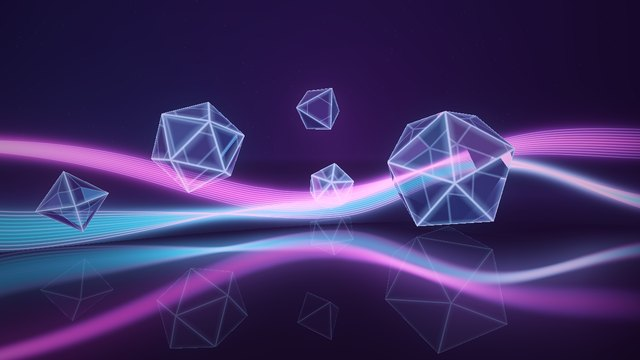
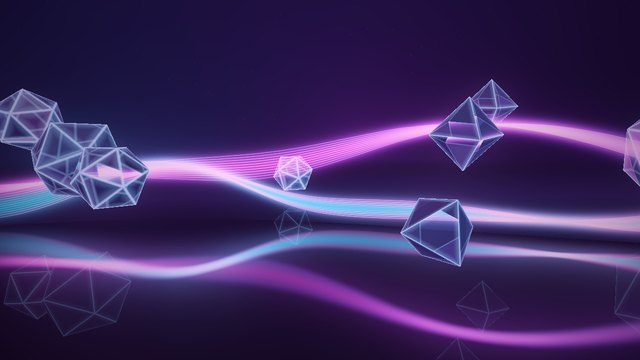
Ribbons: slide the scene right to left with parallax
Syd asked for the ribbons and glass to always be moving left, with
parallax, like the screens in the brand film.

- The whole scene now slides right to left past the camera
  (sceneShift). Because the world itself moves, perspective gives the
  parallax: near glass and the stretches of ribbon that swing towards
  the camera cross the screen faster than far ones. The ribbons' curved
  sheet slides with it, and the far dust drifts slowest.
- The glass is now a stream of 8 shapes at different depths. Each one
  wraps from the left edge back in from the right, off screen, coming
  back a little higher or lower, bigger or smaller and turned
  differently. Starting points are staggered so they don't travel as a
  clump.
- The slide is a slow base drift on a new wall-clock uniform plus
  uScroll, so it speeds up with the music. Both only increase, so it
  never runs backwards.
- In silence the scene still dims, but it keeps a slow drift. This is a
  deliberate exception to the still-in-silence rule, at Syd's request.
- The camera's lean on the bass is toned down (0.25 to 0.10), and so is
  the glass swell on hits, so the first kick no longer lurches.

Adds uClock to the shared prelude: wall-clock seconds that keep
running in silence, wrapped at an hour like uTime. OpenGLRenderer keeps
it (wallClock) and sets it for every shader mode. Unused uniforms
resolve to -1, so other modes are unaffected. CONTRIBUTING lists it,
for modes that should never stop completely.
[…]

diff --git a/VisualiserMac/Sources/VisualiserMac/Render/FunShaders.swift b/VisualiserMac/Sources/VisualiserMac/Render/FunShaders.swift
@@ -34,6 +34,7 @@ enum FunShaders {
     uniform float uActive;      // 0 in silence, eases to 1 with sound
     uniform float uBeats;       // beat counter at the detected tempo
     uniform float uScroll;      // forward-only distance, faster when louder
+    uniform float uClock;       // wall-clock seconds; keeps running in silence (use sparingly)
     out vec4 fragColor;
 
     const float PI = 3.14159265;
@@ -1574,11 +1575,14 @@ extension FunShaders {
     /// through floating glass polyhedra above a glossy floor. The glass is
     /// ray-traced exactly (each shape is a set of paired face planes, so there
     /// is no raymarching loop): it reflects the room, refracts the ribbons
-    /// behind it and lights up along its edges. The bass bends the ribbons and
-    /// widens them, every beat turns the glass and reshapes the ribbons a step,
-    /// the spectrum shapes each ribbon along its length, and the treble makes
-    /// the edges and the dust sparkle. They flow with the forward-only scroll.
-    /// In silence: dim, and still.
+    /// behind it and lights up along its edges. The whole scene slides right
+    /// to left past the camera, so near glass and near stretches of ribbon
+    /// cross faster than far ones (parallax), and each shape comes back in
+    /// from the right once it has left. The slide speeds up with uScroll. The
+    /// bass bends the ribbons and widens them, every beat turns the glass and
+    /// reshapes the ribbons a step, the spectrum shapes each ribbon along its
+    /// length, and the treble makes the edges and the dust sparkle.
+    /// In silence it dims but keeps a slow drift (on uClock), by design.
     static let ribbons = """
     // Glass polyhedra as pairs of parallel planes: the first 4 axes make an
     // octahedron, all 10 an icosahedron (face normals, unit length).
@@ -1590,7 +1594,7 @@ extension FunShaders {
         vec3(0.9342, 0.0, 0.3568), vec3(-0.9342, 0.0, 0.3568));
 
     const float kFloorY = -0.62;
-    const int kGems = 5;
+    const int kGems = 8;
     const int kStrands = 11;
 
     const vec3 ribbonMagenta = vec3(1.0, 0.16, 0.72);
@@ -1604,6 +1608,13 @@ extension FunShaders {
         float t = fract(f);
         return mix(uBands[i], uBands[min(i + 1, 95)], t * t * (3.0 - 2.0 * t));
     }
+
+    // How far the whole scene has slid to the left, in world units. A slow base
+    // drift on the wall clock (so it never stops, even in silence) plus uScroll,
+    // so it speeds up with the music. Both only ever increase. Because the world
+    // itself moves, perspective gives the parallax: near glass and near stretches
+    // of ribbon cross the screen faster than far ones.
+    float sceneShift() { return uClock * 0.15 + uScroll * 0.85; }
 
     // The world turns a step on every beat: a whole number per beat that eases in
     // over the first part of the beat. Forward-only, so it never runs backwards.
@@ -1621,6 +1632,7 @@ extension FunShaders {
     vec3 ribbonLight(vec2 q, float soft) {
         vec3 acc = vec3(0.0);
         float turn = beatTurn();
+        float X = q.x + sceneShift();                        // position along the ribbon, sliding left
         float hueDrift = 0.08 * sin(uBeats * PI / 32.0);     // colours sway a little over 64 beats
         float x01 = clamp(q.x / 6.0 + 0.5, 0.0, 1.0);
         float edge = smoothstep(-3.8, -2.6, q.x) * smoothstep(3.8, 2.6, q.x);
@@ -1634,17 +1646,17 @@ extension FunShaders {
             float amp = (0.17 + 0.18 * spec + 0.26 * uBass) * mix(0.6, 1.0, uActive);
             float ph = fb * 2.1 + turn * 0.55;
             float k = 0.8 + fb * 0.25;
-            float s = uScroll * (1.1 - fb * 0.35);
-            float a1 = q.x * k + s + ph;
-            float a2 = q.x * k * 2.1 - s * 0.6 + ph * 1.7 + fb;
+            float s = uScroll * (0.35 - fb * 0.12);              // a gentle ripple along the ribbon on top of the slide
+            float a1 = X * k + s + ph;
+            float a2 = X * k * 2.1 - s * 0.6 + ph * 1.7 + fb;
             float yc = (fb > 0.5 ? -0.34 : 0.02) + amp * sin(a1) + amp * 0.4 * sin(a2);
             float lo = kFloorY + 0.13;                       // skim the floor rather than sink into it
             yc = 0.5 * (yc + lo + sqrt((yc - lo) * (yc - lo) + 0.004));
             float slope = amp * k * (cos(a1) + 0.84 * cos(a2));
             // Each bundle is a flat ribbon of fine parallel strands that twists
             // as it travels: wide where it faces you, a bright pinch where it turns.
-            float width = (0.10 + 0.09 * uBass + 0.06 * uBeatStrength) * (0.8 + 0.2 * sin(q.x * 0.7 + fb * 3.0));
-            float twist = q.x * (0.75 + 0.2 * fb) - uScroll * 0.9 + fb * 1.7 + turn * 0.25;
+            float width = (0.10 + 0.09 * uBass + 0.06 * uBeatStrength) * (0.8 + 0.2 * sin(X * 0.7 + fb * 3.0));
+            float twist = X * (0.75 + 0.2 * fb) - uScroll * 0.3 + fb * 1.7 + turn * 0.25;
             float face = cos(twist);
             float radius = width * abs(face);
             float norm = inversesqrt(1.0 + slope * slope);
@@ -1659,12 +1671,12 @@ extension FunShaders {
                     float w = 0.0022 + 0.0022 * (1.0 - abs(u)) + soft;
                     float core = 1.0 - smoothstep(0.0, w, d);
                     float halo = exp(-d / (0.014 + soft * 3.0));
-                    vec3 c = ribbonHue(abs(u) * 0.22 + fb * 0.55 + q.x * 0.02 + hueDrift);
+                    vec3 c = ribbonHue(abs(u) * 0.22 + fb * 0.55 + X * 0.02 + hueDrift);
                     bundle += c * (core * 2.4 + halo * 0.4) * (0.55 + 0.45 * (1.0 - abs(u))) * min(pinch, 1.8);
                 }
             }
             // the ribbon's translucent body, and its glow on the air around it
-            vec3 bodyC = ribbonHue(0.05 + fb * 0.55 + q.x * 0.02 + hueDrift);
+            vec3 bodyC = ribbonHue(0.05 + fb * 0.55 + X * 0.02 + hueDrift);
             bundle += bodyC * exp(-pow(dc / (radius + 0.015 + soft * 2.0), 2.0)) * 0.28;
             bundle += bodyC * exp(-dc / (0.16 + soft * 4.0)) * 0.12;
             acc += bundle;
@@ -1673,13 +1685,14 @@ extension FunShaders {
         return acc * edge * glow / (1.0 + soft * 25.0);
     }
 
-    // The ribbons live on a gently curved sheet that swings towards the camera on
-    // the left. Where a ray meets it (a few fixed-point steps), or -1.
-    float ribbonDepth(float x) { return 0.75 * sin(x * 0.5 + 0.9 + uTime * 0.03) - 0.15; }
+    // The ribbons live on a curved sheet that slides left with the scene, so
+    // stretches of ribbon swing towards the camera (and move faster) and back
+    // away again. Where a ray meets it (a few fixed-point steps), or -1.
+    float ribbonDepth(float x) { return 1.0 * sin((x + sceneShift()) * 0.45 + 0.9) - 0.1; }
     float ribbonT(vec3 ro, vec3 rd) {
         if (abs(rd.z) < 1e-3) return -1.0;
         float t = (ribbonDepth(ro.x) - ro.z) / rd.z;
-        for (int i = 0; i < 3; i++) t = (ribbonDepth(ro.x + rd.x * max(t, 0.0)) - ro.z) / rd.z;
+        for (int i = 0; i < 4; i++) t = (ribbonDepth(ro.x + rd.x * max(t, 0.0)) - ro.z) / rd.z;
         return t;
     }
 
@@ -1698,7 +1711,7 @@ extension FunShaders {
         vec3 col = mix(vec3(0.006, 0.014, 0.050), vec3(0.016, 0.026, 0.095), smoothstep(-0.1, 0.6, rd.y));
         col += vec3(0.16, 0.04, 0.22) * exp(-length(rd.xy - vec2(0.15, 0.02)) * 3.0) * (0.25 + 0.35 * uActive);
         col += vec3(0.01, 0.12, 0.22) * exp(-length(rd.xy - vec2(-0.45, -0.1)) * 3.0) * (0.25 + 0.35 * uActive);
-        vec2 sp = rd.xy / max(rd.z, 0.2) * 90.0;
+        vec2 sp = rd.xy / max(rd.z, 0.2) * 90.0 + vec2(sceneShift() * 5.0, 0.0);   // far dust drifts slowest
         vec2 cell = floor(sp);
         float h = hash21(cell);
         vec2 off = vec2(hash21(cell + 7.1), hash21(cell + 3.3)) - 0.5;
@@ -1718,17 +1731,34 @@ extension FunShaders {
         return col;
     }
 
-    // Where each glass shape is, how it's turned, and how big it is.
+    // Where each glass shape is, how it's turned, and how big it is. Each one
+    // sits at its own depth and slides left with the scene; once it's off the
+    // left edge it comes back in from the right (a little higher or lower, a bit
+    // bigger or smaller, turned differently), so the stream never runs dry. The
+    // starting points are staggered so the shapes don't travel as one clump.
     void gemPose(int j, out vec3 c, out vec2 ang, out float r, out int faces) {
         float fj = float(j);
-        if (j == 0)      { c = vec3(1.25, -0.05, 0.25);  r = 0.60; faces = 10; }
-        else if (j == 1) { c = vec3(-1.10, 0.22, 0.45); r = 0.42; faces = 10; }
-        else if (j == 2) { c = vec3(0.10, 0.55, 1.10);  r = 0.30; faces = 4; }
-        else if (j == 3) { c = vec3(-1.95, -0.30, -0.10); r = 0.24; faces = 4; }
-        else             { c = vec3(0.30, -0.28, 1.50); r = 0.30; faces = 10; }
+        if (j == 0)      { c = vec3(0.0, -0.05, 0.25);  r = 0.58; faces = 10; }
+        else if (j == 1) { c = vec3(0.0, 0.22, 0.55);   r = 0.42; faces = 10; }
+        else if (j == 2) { c = vec3(0.0, 0.55, 1.40);   r = 0.30; faces = 4; }
+        else if (j == 3) { c = vec3(0.0, -0.30, -1.95); r = 0.17; faces = 4; }
+        else if (j == 4) { c = vec3(0.0, -0.26, 2.40);  r = 0.34; faces = 10; }
+        else if (j == 5) { c = vec3(0.0, 0.40, -0.70);  r = 0.26; faces = 4; }
+        else if (j == 6) { c = vec3(0.0, 0.45, 2.00);   r = 0.38; faces = 10; }
+        else             { c = vec3(0.0, -0.22, -1.20); r = 0.20; faces = 10; }
+        // Wrap span: wide enough that the jump happens off screen at this depth.
+        float depth = c.z + 3.4;
+        float span = 2.0 * (depth * 1.1 + r) + 0.6;
+        float x = fract(fj * 0.375 + 0.2) * span - sceneShift();
+        float lap = floor(x / span);
+        c.x = x - lap * span - 0.5 * span;
+        float lh = hash11(lap * 3.7 + fj * 11.3);
+        c.y = clamp(c.y + (lh - 0.5) * 0.4, kFloorY + r + 0.05, 0.75);
+        r *= 0.85 + 0.3 * hash11(lap * 5.1 + fj * 2.9);
         c.y += 0.06 * sin(uTime * 0.45 + fj * 1.9);
-        ang = vec2(uTime * (0.10 + 0.03 * fj) + fj * 1.3, beatTurn() * 0.32 + fj * 2.1);
-        r *= 1.0 + 0.10 * uBeatStrength + 0.05 * uBass;
+        ang = vec2(uTime * (0.10 + 0.03 * fj) + uClock * 0.02 + fj * 1.3 + lh * 6.28,
+                   beatTurn() * 0.32 + fj * 2.1);
+        r *= 1.0 + 0.06 * uBeatStrength + 0.04 * uBass;
     }
 
     vec3 toGem(vec3 v, vec2 ang) { v.xz = rot(ang.x) * v.xz; v.yz = rot(ang.y) * v.yz; return v; }
@@ -1847,10 +1877,10 @@ extension FunShaders {
 
     void main() {
         vec2 p = screenP();
-        // Camera drifts slowly round the scene (the clock stops in silence) and
-        // leans in on the bass.
+        // Camera sways slowly (on the sound-gated clock) and leans in a little
+        // on the bass. The scene itself slides left past it (sceneShift).
         float yaw = 0.22 * sin(uTime * 0.07);
-        vec3 ro = vec3(0.0, 0.16, -3.3 + 0.25 * uBass);
+        vec3 ro = vec3(0.0, 0.16, -3.3 + 0.10 * uBass);
         ro.xz = rot(yaw) * ro.xz;
         vec3 fw = normalize(vec3(0.0, -0.12, 0.0) - ro);
         vec3 rt = normalize(cross(vec3(0.0, 1.0, 0.0), fw));
@@ -1887,7 +1917,7 @@ extension FunShaders {
 
         col = 1.0 - exp(-col * 1.8);                   // soft highlight roll-off
         col *= 1.0 - 0.35 * dot(p, p);                  // vignette
-        col = mix(col * 0.5, col, uActive);             // dims and settles in silence
+        col = mix(col * 0.5, col, uActive);             // dims in silence, but keeps drifting
         fragColor = vec4(col, 1.0);
     }
     """

diff --git a/VisualiserMac/Sources/VisualiserMac/Render/OpenGLRenderer.swift b/VisualiserMac/Sources/VisualiserMac/Render/OpenGLRenderer.swift
@@ -90,7 +90,7 @@ final class OpenGLRenderer: NSObject {
         let program: GLuint
         let time, bass, mid, treble, beat, beatStrength, level, resolution, idle, bands: GLint
         let eventKind, eventAge: GLint
-        let active, beats, peaks, scroll: GLint
+        let active, beats, peaks, scroll, clock: GLint
     }
     private var shaderModes: [VisualizerMode: ShaderMode] = [:]
 
@@ -1215,6 +1215,10 @@ final class OpenGLRenderer: NSObject {
     /// Distance travelled, for things that should move faster when louder.
     /// Accumulated (never time × speed) so a drop in speed can't run it backwards.
     private var scrollClock: Double = 0
+    /// Plain wall-clock seconds that keep running in silence. Only for modes
+    /// that should never stop completely (Ribbons keeps a slow, dim drift);
+    /// everything else should stay on the sound-gated clocks above.
+    private var wallClock: Double = 0
 
     private func advanceDanceClock(_ snap: AudioSnapshot) {
         let now = CACurrentMediaTime()
@@ -1225,6 +1229,7 @@ final class OpenGLRenderer: NSObject {
         danceActivity += (target - danceActivity) * min(1, dt * 6)
         danceClock += dt * danceActivity
         scrollClock += dt * danceActivity * (0.4 + Double(snap.level) * 0.6)
+        wallClock += dt
         let bpm = snap.bpm > 0 ? snap.bpm : 120
         beatClock += dt * danceActivity * bpm / 60
         if snap.beat { beatClock += (beatClock.rounded() - beatClock) * 0.35 }
@@ -1246,6 +1251,7 @@ final class OpenGLRenderer: NSObject {
         glUniform1f(m.active, Float(danceActivity))
         glUniform1f(m.beats, Float(beatClock.truncatingRemainder(dividingBy: 1024)))
         glUniform1f(m.scroll, Float(scrollClock.truncatingRemainder(dividingBy: 4096)))
+        glUniform1f(m.clock, Float(wallClock.truncatingRemainder(dividingBy: 3600)))
         if mode == .spectrum {
             for i in 0..<spectrumPeaks.count {
                 let v = max(snap.bands[i * 2], snap.bands[i * 2 + 1])
@@ -1446,7 +1452,7 @@ final class OpenGLRenderer: NSObject {
                 level: loc("uLevel"), resolution: loc("uResolution"), idle: loc("uIdle"),
                 bands: loc("uBands[0]"), eventKind: loc("uEventKind"), eventAge: loc("uEventAge"),
                 active: loc("uActive"), beats: loc("uBeats"), peaks: loc("uPeaks[0]"),
-                scroll: loc("uScroll"))
+                scroll: loc("uScroll"), clock: loc("uClock"))
             if mode == .band {
                 uBandParts = loc("uParts[0]"); uBandHits = loc("uHits"); uBandPluck = loc("uPluck")
                 uBandVocal = loc("uVocal"); uBandKeys = loc("uKeys[0]")

diff --git a/site/index.html b/site/index.html
@@ -237,7 +237,7 @@
       <article class="mode" data-mode="band"><img src="media/modes/band.jpg" alt="The Band mode: a pixel-art band walking on stage when their instrument is heard" loading="lazy"><div class="body"><div class="num">11 · KEY -</div><h3>The Band</h3><p>A pixel-art band in ten genre sets, from a concert hall to a jazz club. Musicians walk on when AudioVane hears their instrument, and the singer matches the voice.</p></div></article>
       <article class="mode" data-mode="machine"><img src="media/modes/machine.jpg" alt="Machine mode: cannons firing balls at the drums" loading="lazy"><div class="body"><div class="num">12 · KEY [</div><h3>Machine</h3><p>Cannons fire balls at drums in time with the notes, after mrdoob's MIDEM Hack Day machine.</p></div></article>
       <article class="mode" data-mode="waveform"><img src="media/modes/waveform.jpg" alt="Neon Wave mode: glowing green waveforms shaped by the spectrum" loading="lazy"><div class="body"><div class="num">13 · KEY ]</div><h3>Neon Wave</h3><p>Glowing green waveforms, shaped by the spectrum like an analogue sound analyser.</p></div></article>
-      <article class="mode" data-mode="ribbons"><img src="media/modes/ribbons.jpg" alt="Ribbons mode: glowing magenta and cyan ribbons twisting through glass shapes above a glossy floor" loading="lazy"><div class="body"><div class="num">14 · KEY ;</div><h3>Ribbons</h3><p>Luminous ribbons twist through floating glass. Every bass note bends them, and every beat turns the glass.</p></div></article>
+      <article class="mode" data-mode="ribbons"><img src="media/modes/ribbons.jpg" alt="Ribbons mode: glowing magenta and cyan ribbons twisting through glass shapes above a glossy floor" loading="lazy"><div class="body"><div class="num">14 · KEY ;</div><h3>Ribbons</h3><p>Luminous ribbons twist through floating glass as the whole scene drifts past. Every bass note bends them, and every beat turns the glass.</p></div></article>
       <article class="mode scan"><div class="body"><div class="num">KEY =</div><h3>Auto Scan</h3><p>Cycles through every mode, twenty seconds each.</p></div></article>
     </div>
   </section>

diff --git a/VisualiserMac/README.md b/VisualiserMac/README.md
@@ -17,7 +17,7 @@ Fourteen modes, plus Auto Scan:
 11. **The Band**: colour pixel-art musicians in ten genre sets (classical hall, DJ booth, rock theatre, pop studio, hip-hop street, jazz club, blues bar, country porch, R&B velvet, ambient), each with its own instruments and outfits. Apple's on-device sound classifier (SoundAnalysis), backed up by beat and bass detection, decides who walks on; the singer's voice (female, male or duet) comes from the vocal pitch. Playing follows the beat clock, with spectrum onsets as accents.
 12. **Machine**: a port of the MIDEM Music Hack Day piece by [@mrdoob and @plamere](https://github.com/mrdoob/midemhackday), rebuilt from its source: twelve stations of lathe-turned cannons and drums (one per pitch class) and a ring of 40 pads. Each note onset fires balls that arc onto the drum and pad for that pitch and loudness; struck drums recoil and flash white. Smooth meshes, 4x MSAA with a depth buffer, and the original's camera path flown over the length of the track (Music/Spotify report it).
 13. **Neon Wave**: layered glowing green waveforms, shaped by the spectrum like an analogue sound analyser.
-14. **Ribbons**: luminous magenta and cyan ribbons twisting through floating glass polyhedra above a glossy floor. The bass bends and widens the ribbons, each beat turns the glass a step, and the edges sparkle with the treble.
+14. **Ribbons**: luminous magenta and cyan ribbons twisting through floating glass polyhedra above a glossy floor, the whole scene sliding right to left with depth parallax. The bass bends and widens the ribbons, each beat turns the glass a step, and the edges sparkle with the treble. It keeps a slow, dim drift in silence.
 
 **Auto Scan** cycles through every other mode, 20 seconds each, and always sits at the bottom of the mode list.
 

diff --git a/CONTRIBUTING.md b/CONTRIBUTING.md
@@ -30,6 +30,7 @@ Most modes are a single full-screen fragment shader, which is the quickest way i
    - `uBeats`: a beat counter locked to the detected tempo (`fract(uBeats)` is the phase within a beat)
    - `uScroll`: forward-only distance that moves faster when louder
    - `uActive`: 0 in silence, easing to 1 with sound
+   - `uClock`: wall-clock seconds that keep running in silence. Only for a mode that should never stop completely (Ribbons keeps a slow drift); everything else follows the house rule below
    - helpers: `screenP()`, `sdCircle`, `sdBox`, `sdSeg`, `fill`, `rot`, `hash21`, …
 3. **Follow the house rules:**
    - In silence the mode should be still: scale motion and colour by `uActive`, and drive time from `uTime`, `uBeats` or `uScroll`.
